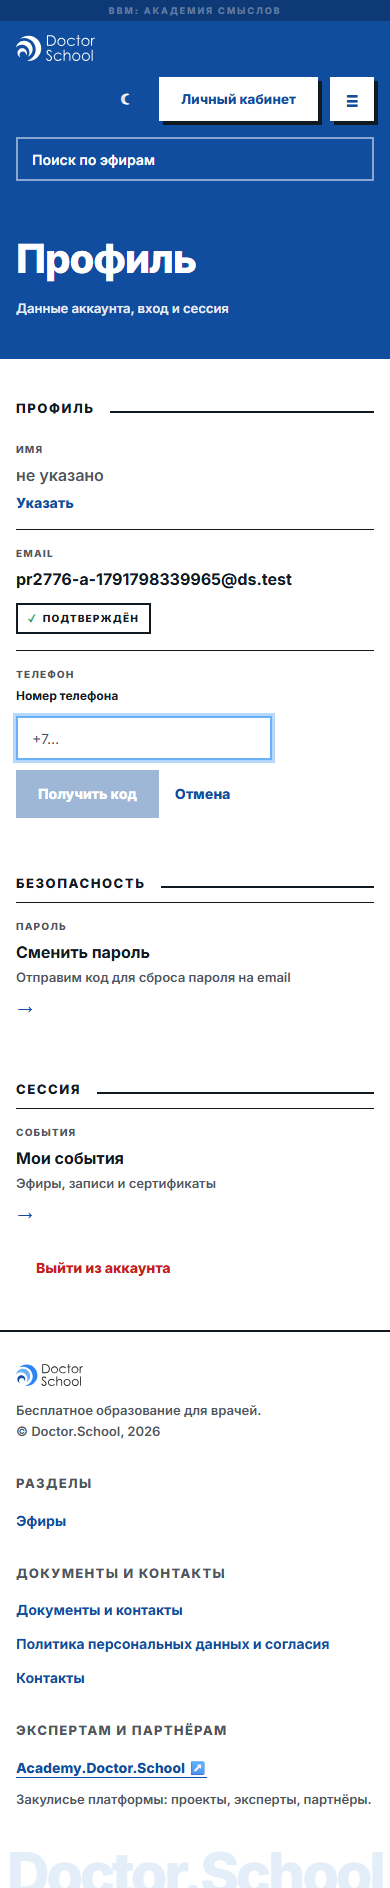
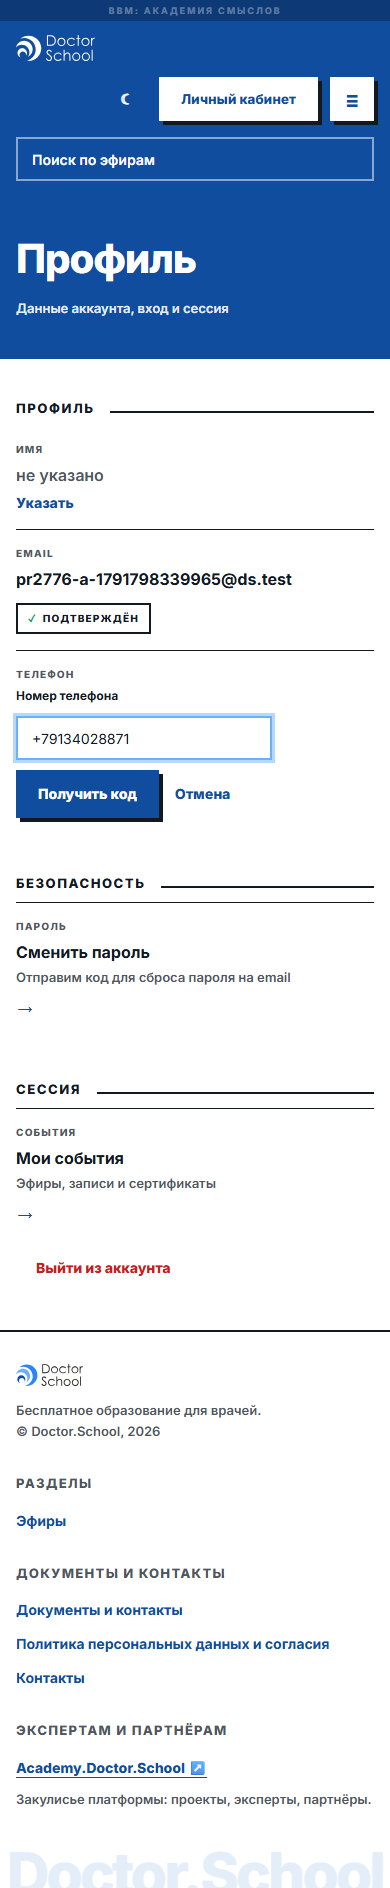
fix(account): EARS-22 mask on the phone entry; Mode (a) rework (#2776)
- The number field applies the shared EARS-22 mask (maskPhoneInput, the one
  <PhoneField> uses); the EARS-50 prefill stays as typed until edited.
- A request-side 400 reads as the service message, not «Неверный код».
- The number field is read-only while the code is requested; the code-step
  error is linked to the code field; focus returns to the row action after
  cancel, back and confirm.
- The cooldown is the sign-in code step's own constant (EARS-42/59).
- The design-sync preview passes the required phoneActions and copy.phone.
- Re-captured entry states on both hosts.

Claude-Session: https://claude.ai/code/session_01QMUqXgC4apjdRRUSTLUauu

Changed region(s): [[0.0308, 0.375, 0.4308, 0.4375]]

diff --git a/packages/design-system/src/blocks/account-phone-row.tsx b/packages/design-system/src/blocks/account-phone-row.tsx
@@ -11,9 +11,11 @@ import {
 import { Badge } from "../primitives/badge";
 import { Button } from "../primitives/button";
 import { FormError } from "../primitives/form";
+import { maskPhoneInput } from "../primitives/fields/phone-mask";
 import { Input } from "../primitives/input";
 import { InputOTP, InputOTPGroup, InputOTPSlot } from "../primitives/input-otp";
 import { Link as DsLink } from "../primitives/link";
+import { LOGIN_RESEND_COOLDOWN_SECONDS } from "./login-card";
 import { useResendCountdown } from "./use-resend-countdown";
 
 /**
@@ -42,8 +44,9 @@ import { useResendCountdown } from "./use-resend-countdown";
  * user abandoned.
  */
 
-/** Resend cooldown — the same timer as the SMS sign-in code step (#227). */
-export const ACCOUNT_PHONE_RESEND_COOLDOWN_SECONDS = 30;
+/** Resend cooldown — the SMS sign-in code step's own timer (003 EARS-42/59). */
+export const ACCOUNT_PHONE_RESEND_COOLDOWN_SECONDS =
+  LOGIN_RESEND_COOLDOWN_SECONDS;
 
 /** The six-digit SMS code (EARS-48, as EARS-41). */
 const PHONE_CODE_LENGTH = 6;
@@ -159,15 +162,22 @@ function RowAction({
   children,
   testId,
   className = "",
+  buttonRef,
 }: {
   onClick: () => void;
   children: React.ReactNode;
   testId: string;
   className?: string;
+  buttonRef?: React.Ref<HTMLButtonElement>;
 }) {
   return (
     <DsLink asChild className={`text-sm font-extrabold ${className}`}>
-      <button type="button" onClick={onClick} data-testid={testId}>
+      <button
+        type="button"
+        onClick={onClick}
+        data-testid={testId}
+        ref={buttonRef}
+      >
         {children}
       </button>
     </DsLink>
@@ -218,6 +228,24 @@ export function AccountPhoneRow({
     setError(null);
   }, [phone, phoneVerified, suggestedPhone]);
 
+  // Leaving a step unmounts the focused control; the focus goes back to the
+  // row action instead of falling to the page.
+  const actionRef = React.useRef<HTMLButtonElement>(null);
+  const refocusAction = React.useRef(false);
+  React.useEffect(() => {
+    if (phase.kind === "display" && refocusAction.current) {
+      refocusAction.current = false;
+      actionRef.current?.focus();
+    }
+  }, [phase]);
+
+  // A malformed-number refusal of the code REQUEST is not a wrong code: no
+  // code exists yet (003 EARS-48 names the code-step failure only).
+  const requestFailure = (err: unknown): AccountPhoneFailure => {
+    const kind = actions.classifyError(err);
+    return kind === "invalid" ? "unavailable" : kind;
+  };
+
   const draftValid = RequestPhoneCodeRequestSchema.safeParse({
     phone: draft,
   }).success;
@@ -235,6 +263,7 @@ export function AccountPhoneRow({
   }
 
   function showUnconfirmed() {
+    refocusAction.current = true;
     setError(null);
     setCode("");
     setPhase({
@@ -248,6 +277,7 @@ export function AccountPhoneRow({
   function cancel() {
     if (codeRequested) showUnconfirmed();
     else {
+      refocusAction.current = true;
       setError(null);
       setPhase(previous);
     }
@@ -260,6 +290,7 @@ export function AccountPhoneRow({
     try {
       const status = await actions.requestCode(draft);
       if (status === "already_confirmed") {
+        refocusAction.current = true;
         setCodeRequested(false);
         setPhase({
           kind: "display",
@@ -274,7 +305,7 @@ export function AccountPhoneRow({
         setPhase({ kind: "code" });
       }
     } catch (err) {
-      setError(actions.classifyError(err));
+      setError(requestFailure(err));
     } finally {
       setPending(false);
     }
@@ -289,7 +320,7 @@ export function AccountPhoneRow({
       await actions.requestCode(draft);
       setResendNonce((n) => n + 1);
     } catch (err) {
-      setError(actions.classifyError(err));
+      setError(requestFailure(err));
     } finally {
       setPending(false);
     }
@@ -301,6 +332,7 @@ export function AccountPhoneRow({
     setError(null);
     try {
       const confirmed = await actions.confirm(value);
+      refocusAction.current = true;
       setCodeRequested(false);
       setCode("");
       setPhase({
@@ -343,7 +375,7 @@ export function AccountPhoneRow({
             placeholder={copy.placeholder}
             value={draft}
             onChange={(e) => {
-              setDraft(e.target.value);
+              setDraft(maskPhoneInput(e.target.value));
               setError(null);
             }}
             onKeyDown={(e) => {
@@ -354,10 +386,13 @@ export function AccountPhoneRow({
               if (e.key === "Escape") cancel();
             }}
             maxLength={32}
+            // Read-only while the code is requested: the SMS goes to the
+            // number the code step then names.
+            readOnly={pending}
             autoFocus
             aria-invalid={errorText ? true : undefined}
             aria-describedby={errorText ? "profile-phone-error" : undefined}
-            className="min-w-0 flex-[0_1_16rem]"
+            className="min-w-0 shrink grow-0 basis-64"
             data-testid="profile-phone-input"
           />
           <Button
@@ -411,6 +446,7 @@ export function AccountPhoneRow({
           autoFocus
           aria-label={copy.codeLabel}
           aria-invalid={wrong ? true : undefined}
+          aria-describedby={errorText ? "profile-phone-code-error" : undefined}
           data-testid="profile-phone-code"
         >
           <InputOTPGroup>
@@ -423,7 +459,9 @@ export function AccountPhoneRow({
             ))}
           </InputOTPGroup>
         </InputOTP>
-        {errorText ? <FormError>{errorText}</FormError> : null}
+        {errorText ? (
+          <FormError id="profile-phone-code-error">{errorText}</FormError>
+        ) : null}
         <div className="flex flex-wrap items-center gap-x-6 gap-y-2">
           <Button
             type="button"
@@ -507,6 +545,7 @@ export function AccountPhoneRow({
       <RowAction
         onClick={open}
         testId="profile-phone-action"
+        buttonRef={actionRef}
         className="self-start layout:self-auto"
       >
         {actionLabel}

diff --git a/packages/design-system/src/blocks/account-profile-card.test.tsx b/packages/design-system/src/blocks/account-profile-card.test.tsx
@@ -305,7 +305,7 @@ describe("AccountProfileCard — the confirmable phone row (003 #2449)", () => {
     );
   });
 
-  it("003 EARS-47: «Добавить» opens the entry; «Получить код» stays disabled until the number is a valid phone, then requests the code for the number as typed", async () => {
+  it("003 EARS-47: «Добавить» opens the entry; the field takes the EARS-22 phone mask as typed; «Получить код» stays disabled until the number is a valid phone, then requests the code for the masked number", async () => {
     const user = userEvent.setup();
     const { phoneActions } = renderCard();
 
@@ -320,11 +320,102 @@ describe("AccountProfileCard — the confirmable phone row (003 #2449)", () => {
     await user.type(input, " 402-88-71");
     await user.click(screen.getByTestId("profile-phone-send"));
 
-    expect(phoneActions.requestCode).toHaveBeenCalledWith("8 913 402-88-71");
+    expect(input).toHaveValue("+79134028871");
+    expect(phoneActions.requestCode).toHaveBeenCalledWith("+79134028871");
     expect(
       await screen.findByTestId("profile-phone-code-sent"),
     ).toHaveTextContent("Код отправлен по SMS на +7 913 402-88-71");
     expect(screen.getByTestId("profile-phone-resend")).toBeDisabled();
+  });
+
+  it("003 EARS-50: the prefilled number stays exactly as typed in the application until the doctor edits it; an edit applies the EARS-22 mask", async () => {
+    const user = userEvent.setup();
+    const { phoneActions } = renderCard({
+      profile: { ...profile, suggestedPhone: "8 (913) 402-88-71" },
+    });
+
+    await user.click(screen.getByTestId("profile-phone-action"));
+    const input = screen.getByLabelText("Номер телефона");
+    expect(input).toHaveValue("8 (913) 402-88-71");
+    await user.type(input, "{Backspace}2");
+    expect(input).toHaveValue("+79134028872");
+    await user.click(screen.getByTestId("profile-phone-send"));
+    expect(phoneActions.requestCode).toHaveBeenCalledWith("+79134028872");
+  });
+
+  it("003 EARS-47: a request the server refuses as malformed reads as the service message, never as «Неверный код» before any code exists", async () => {
+    const user = userEvent.setup();
+    renderCard({
+      phoneActions: phoneActionsMock({
+        requestCode: vi.fn().mockRejectedValue(new PhoneFailure("invalid")),
+      }),
+    });
+
+    await requestCodeFor(user, "+79134028871");
+
+    expect(await screen.findByRole("alert")).toHaveTextContent(
+      "Сервис временно недоступен",
+    );
+    expect(screen.queryByText("Неверный код")).toBeNull();
+  });
+
+  it("003 EARS-47: while the code is requested the number field is read-only, so the SMS goes to the number the code step names", async () => {
+    const user = userEvent.setup();
+    renderCard({
+      phoneActions: phoneActionsMock({
+        requestCode: vi.fn(() => new Promise<"code_sent">(() => {})),
+      }),
+    });
+
+    await requestCodeFor(user, "+79134028871");
+
+    expect(screen.getByLabelText("Номер телефона")).toHaveAttribute("readonly");
+  });
+
+  it("003 EARS-48: the code-step error is linked to the code field", async () => {
+    const user = userEvent.setup();
+    renderCard({
+      phoneActions: phoneActionsMock({
+        confirm: vi.fn().mockRejectedValue(new PhoneFailure("invalid")),
+      }),
+    });
+
+    await requestCodeFor(user, "+79134028871");
+    await screen.findByTestId("profile-phone-code-sent");
+    await user.keyboard("000000");
+    const alert = await screen.findByRole("alert");
+
+    expect(alert.id).not.toBe("");
+    expect(screen.getByLabelText("Код из SMS")).toHaveAttribute(
+      "aria-describedby",
+      expect.stringContaining(alert.id),
+    );
+  });
+
+  it("003 EARS-49: leaving the entry or the code step returns the focus to the row action, never to the page", async () => {
+    const user = userEvent.setup();
+    renderCard();
+
+    await user.click(screen.getByTestId("profile-phone-action"));
+    await user.click(screen.getByTestId("profile-phone-cancel"));
+    expect(screen.getByTestId("profile-phone-action")).toHaveFocus();
+
+    await requestCodeFor(user, "+79134028871");
+    await screen.findByTestId("profile-phone-code-sent");
+    await user.click(screen.getByTestId("profile-phone-back"));
+    expect(screen.getByTestId("profile-phone-action")).toHaveFocus();
+  });
+
+  it("003 EARS-48: after a confirmation the focus lands on the row action «Изменить»", async () => {
+    const user = userEvent.setup();
+    renderCard();
+
+    await requestCodeFor(user, "+79134028871");
+    await screen.findByTestId("profile-phone-code-sent");
+    await user.keyboard("482913");
+    await screen.findByTestId("profile-phone-verified");
+
+    expect(screen.getByTestId("profile-phone-action")).toHaveFocus();
   });
 
   it("003 EARS-48: six digits submit the code; on success the row shows the server's confirmed number, its badge and the one-time note", async () => {

diff --git a/.design-sync/previews/AccountProfileCard.tsx b/.design-sync/previews/AccountProfileCard.tsx
@@ -1,4 +1,4 @@
-import { AccountProfileCard } from '@ds/design-system';
+import { AccountProfileCard, type AccountPhoneActions } from '@ds/design-system';
 
 const copy = {
   title: 'Личный кабинет',
@@ -15,6 +15,27 @@ const copy = {
   emailVerified: 'Подтверждена',
   phoneLabel: 'Телефон',
   phoneEmpty: 'Не указан',
+  phone: {
+    add: 'Добавить',
+    confirm: 'Подтвердить',
+    change: 'Изменить',
+    verified: 'подтверждён',
+    unconfirmedHelper: 'Не подтверждён — подтвердите, чтобы входить по SMS',
+    suggestedHelper: 'Из заявки на конгресс — подтвердите, чтобы входить по SMS',
+    confirmedNote: 'Телефон подтверждён. Теперь можно входить по коду из SMS',
+    inputLabel: 'Номер телефона',
+    placeholder: '+7…',
+    send: 'Получить код',
+    cancel: 'Отмена',
+    codeSentTo: 'Код отправлен по SMS на',
+    codeLabel: 'Код из SMS',
+    back: '← Изменить номер',
+    resend: 'Отправить снова',
+    resendCountdown: (seconds: number) => `Отправить снова · ${seconds} с`,
+    wrongCode: 'Неверный код',
+    throttled: 'Слишком много попыток. Попробуйте позже',
+    unavailable: 'Сервис временно недоступен — попробуйте ещё раз.',
+  },
   passwordLabel: 'Пароль',
   passwordChange: 'Изменить пароль',
   passwordHelper: 'Мы отправим ссылку для смены пароля',
@@ -25,7 +46,22 @@ const copy = {
   signOut: 'Выйти',
 };
 
+/* Preview transport: any number gets a code; 123456 confirms it. */
+let previewPhone = '';
+const phoneActions: AccountPhoneActions = {
+  requestCode: async (phone) => {
+    previewPhone = phone;
+    return 'code_sent';
+  },
+  confirm: async (code) => {
+    if (code !== '123456') throw new Error('invalid');
+    return previewPhone;
+  },
+  classifyError: () => 'invalid',
+};
+
 const handlers = {
+  phoneActions,
   onSaveDisplayName: async () => {},
   resolveSaveError: () => 'Не удалось сохранить имя. Попробуйте ещё раз.',
   onSignOut: () => {},
@@ -40,6 +76,7 @@ export const Filled = () => (
         phone: '+7 900 000-00-00',
         phoneVerified: true,
         displayName: 'Анна Петрова',
+        suggestedPhone: null,
       }}
       copy={copy}
       initials="АП"
@@ -60,6 +97,7 @@ export const EmptyIdentity = () => (
         phone: null,
         phoneVerified: null,
         displayName: null,
+        suggestedPhone: null,
       }}
       copy={copy}
       initials={null}
@@ -79,6 +117,7 @@ export const RowsHidden = () => (
         phone: '+7 900 000-00-00',
         phoneVerified: true,
         displayName: 'Анна Петрова',
+        suggestedPhone: null,
       }}
       copy={copy}
       initials="АП"
